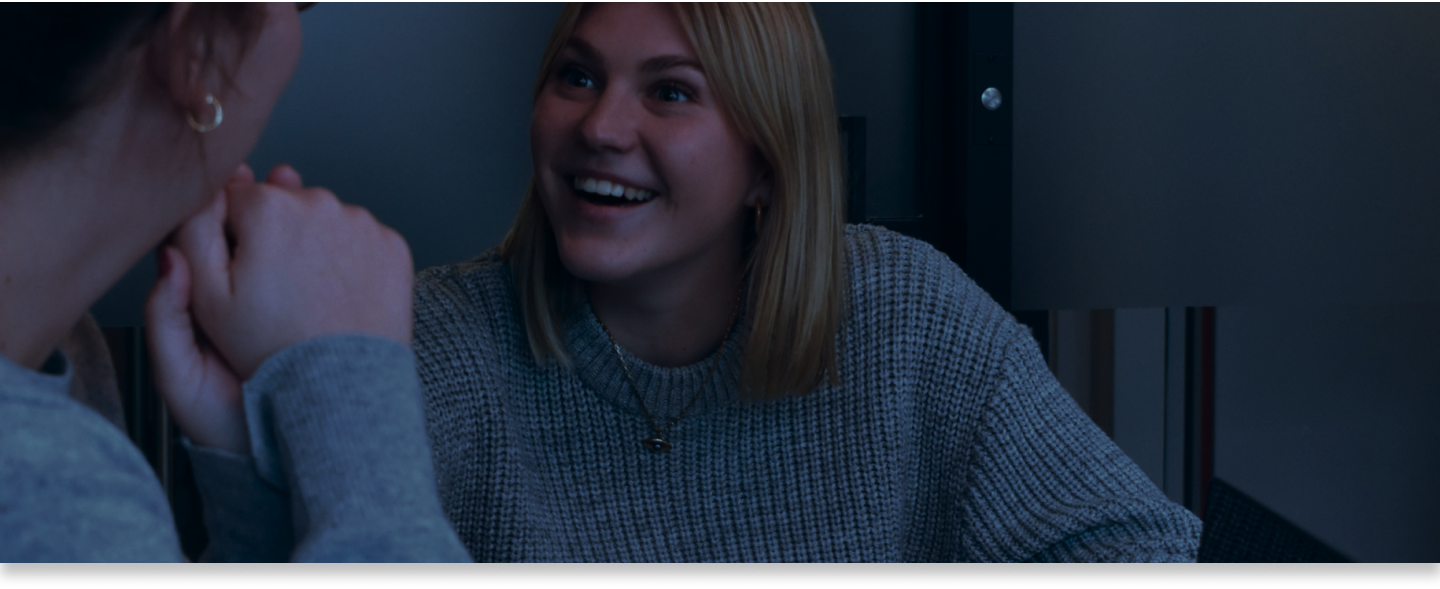
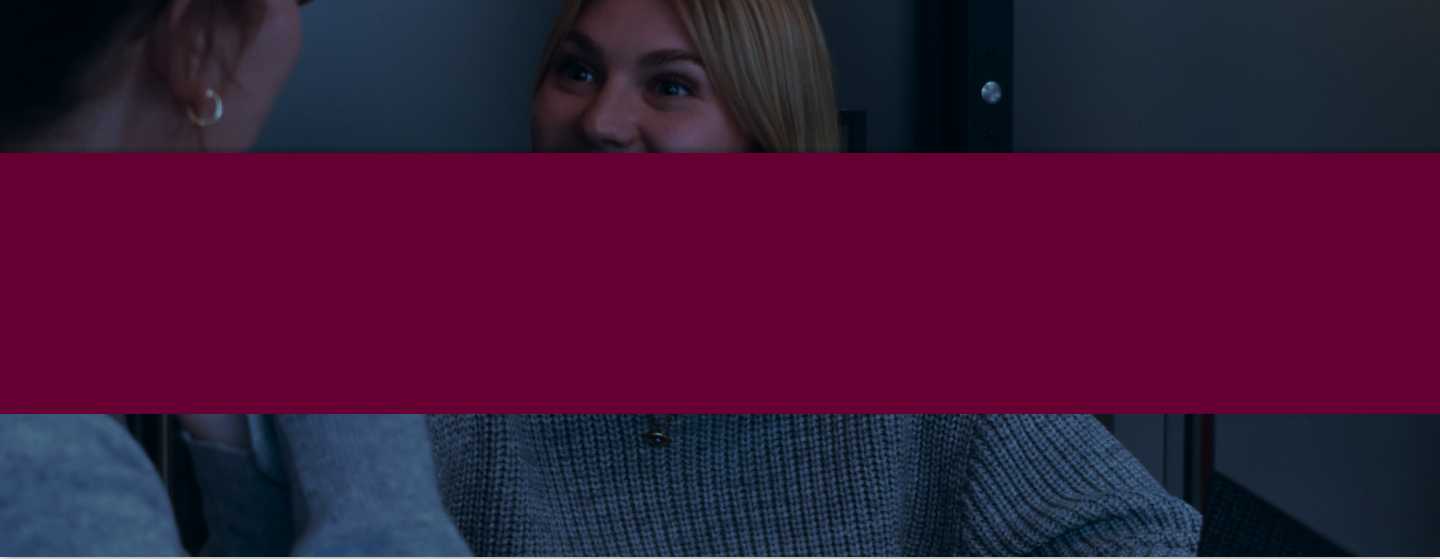
testimonials

diff --git a/temp-layout/index.html b/temp-layout/index.html
@@ -550,7 +550,7 @@
         <div class="container py-5" >
 
         </div>
-        <img src="img/contents/Rectangle_72.png" width="100%" style="position: absolute;left: -1px;">
+       
     </div>
 
 
